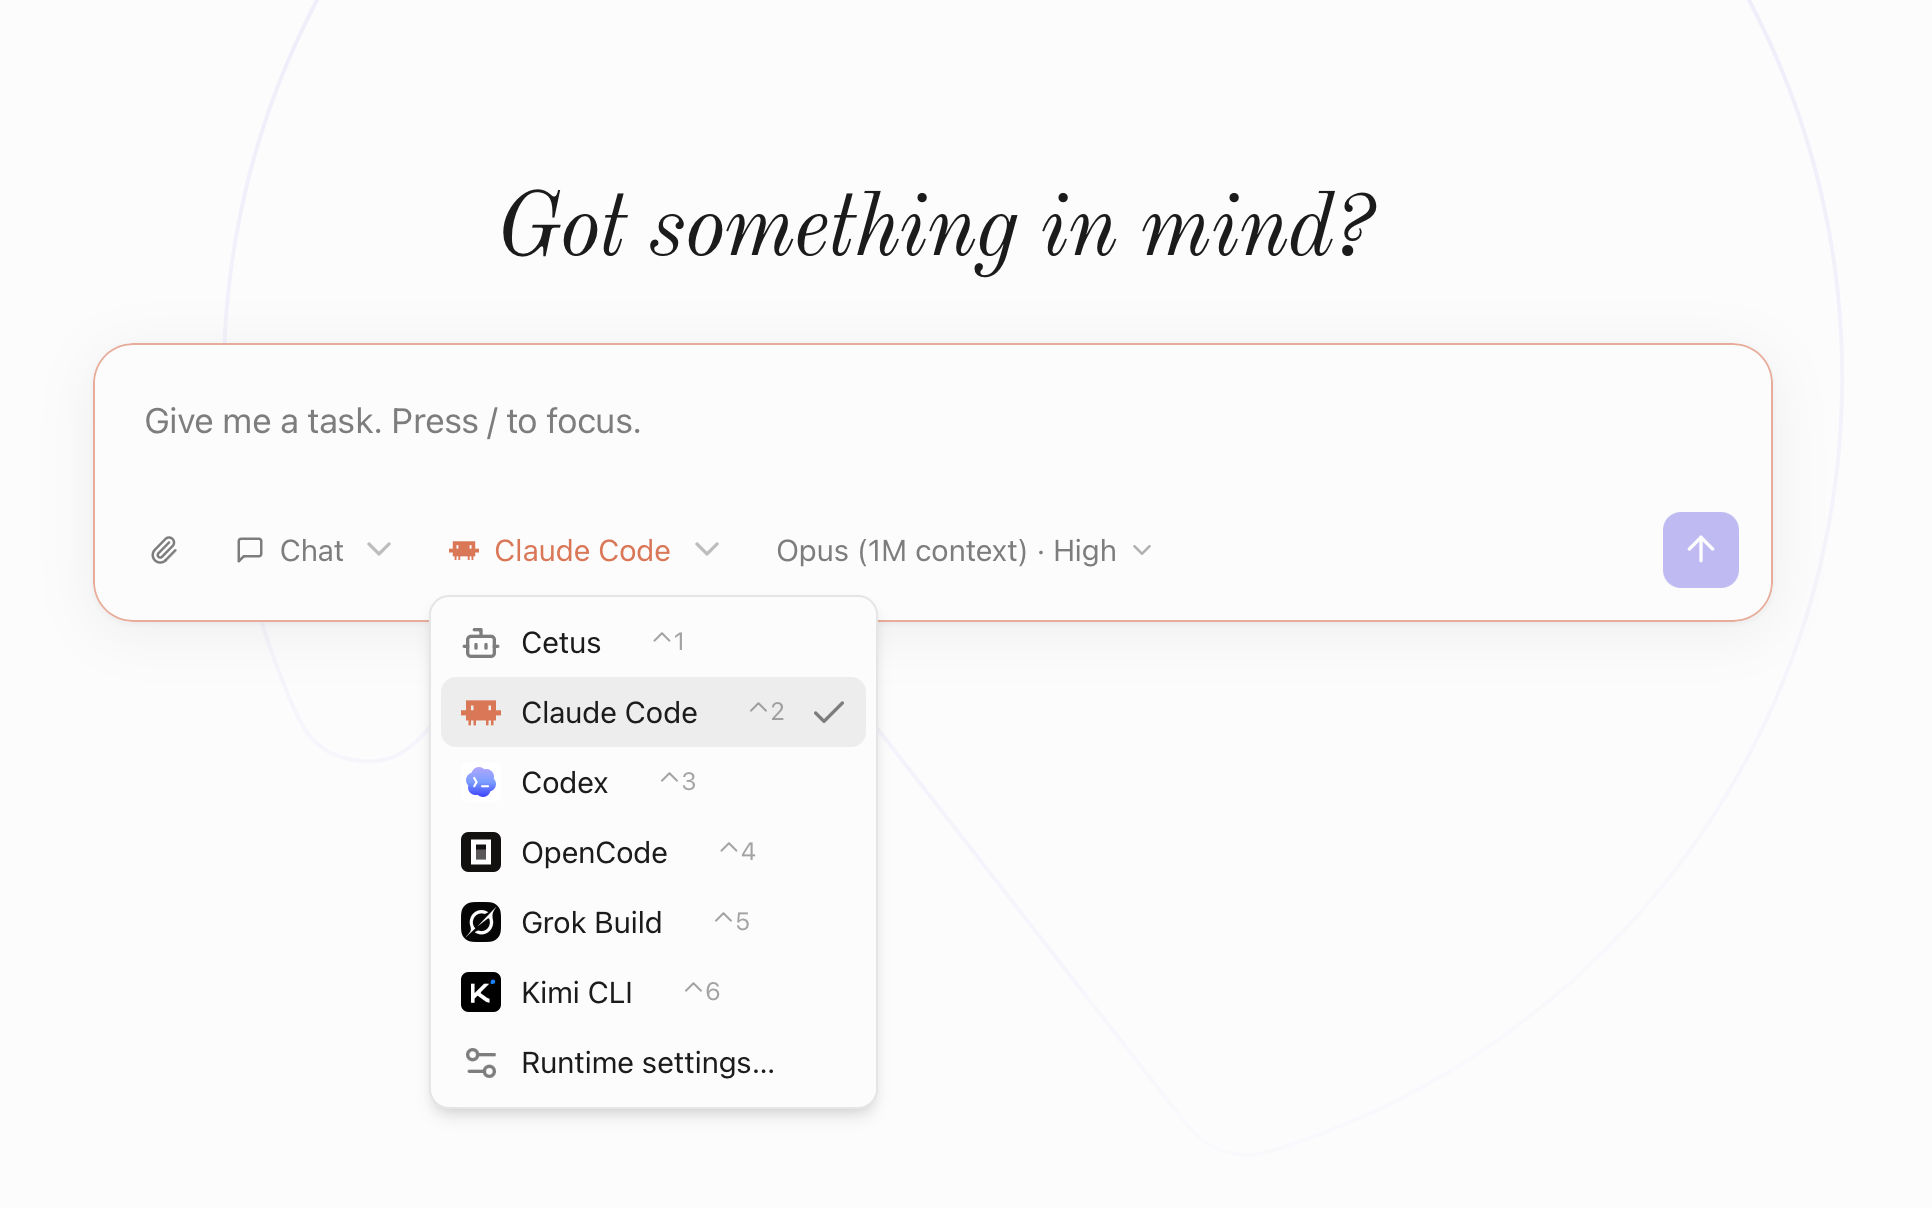
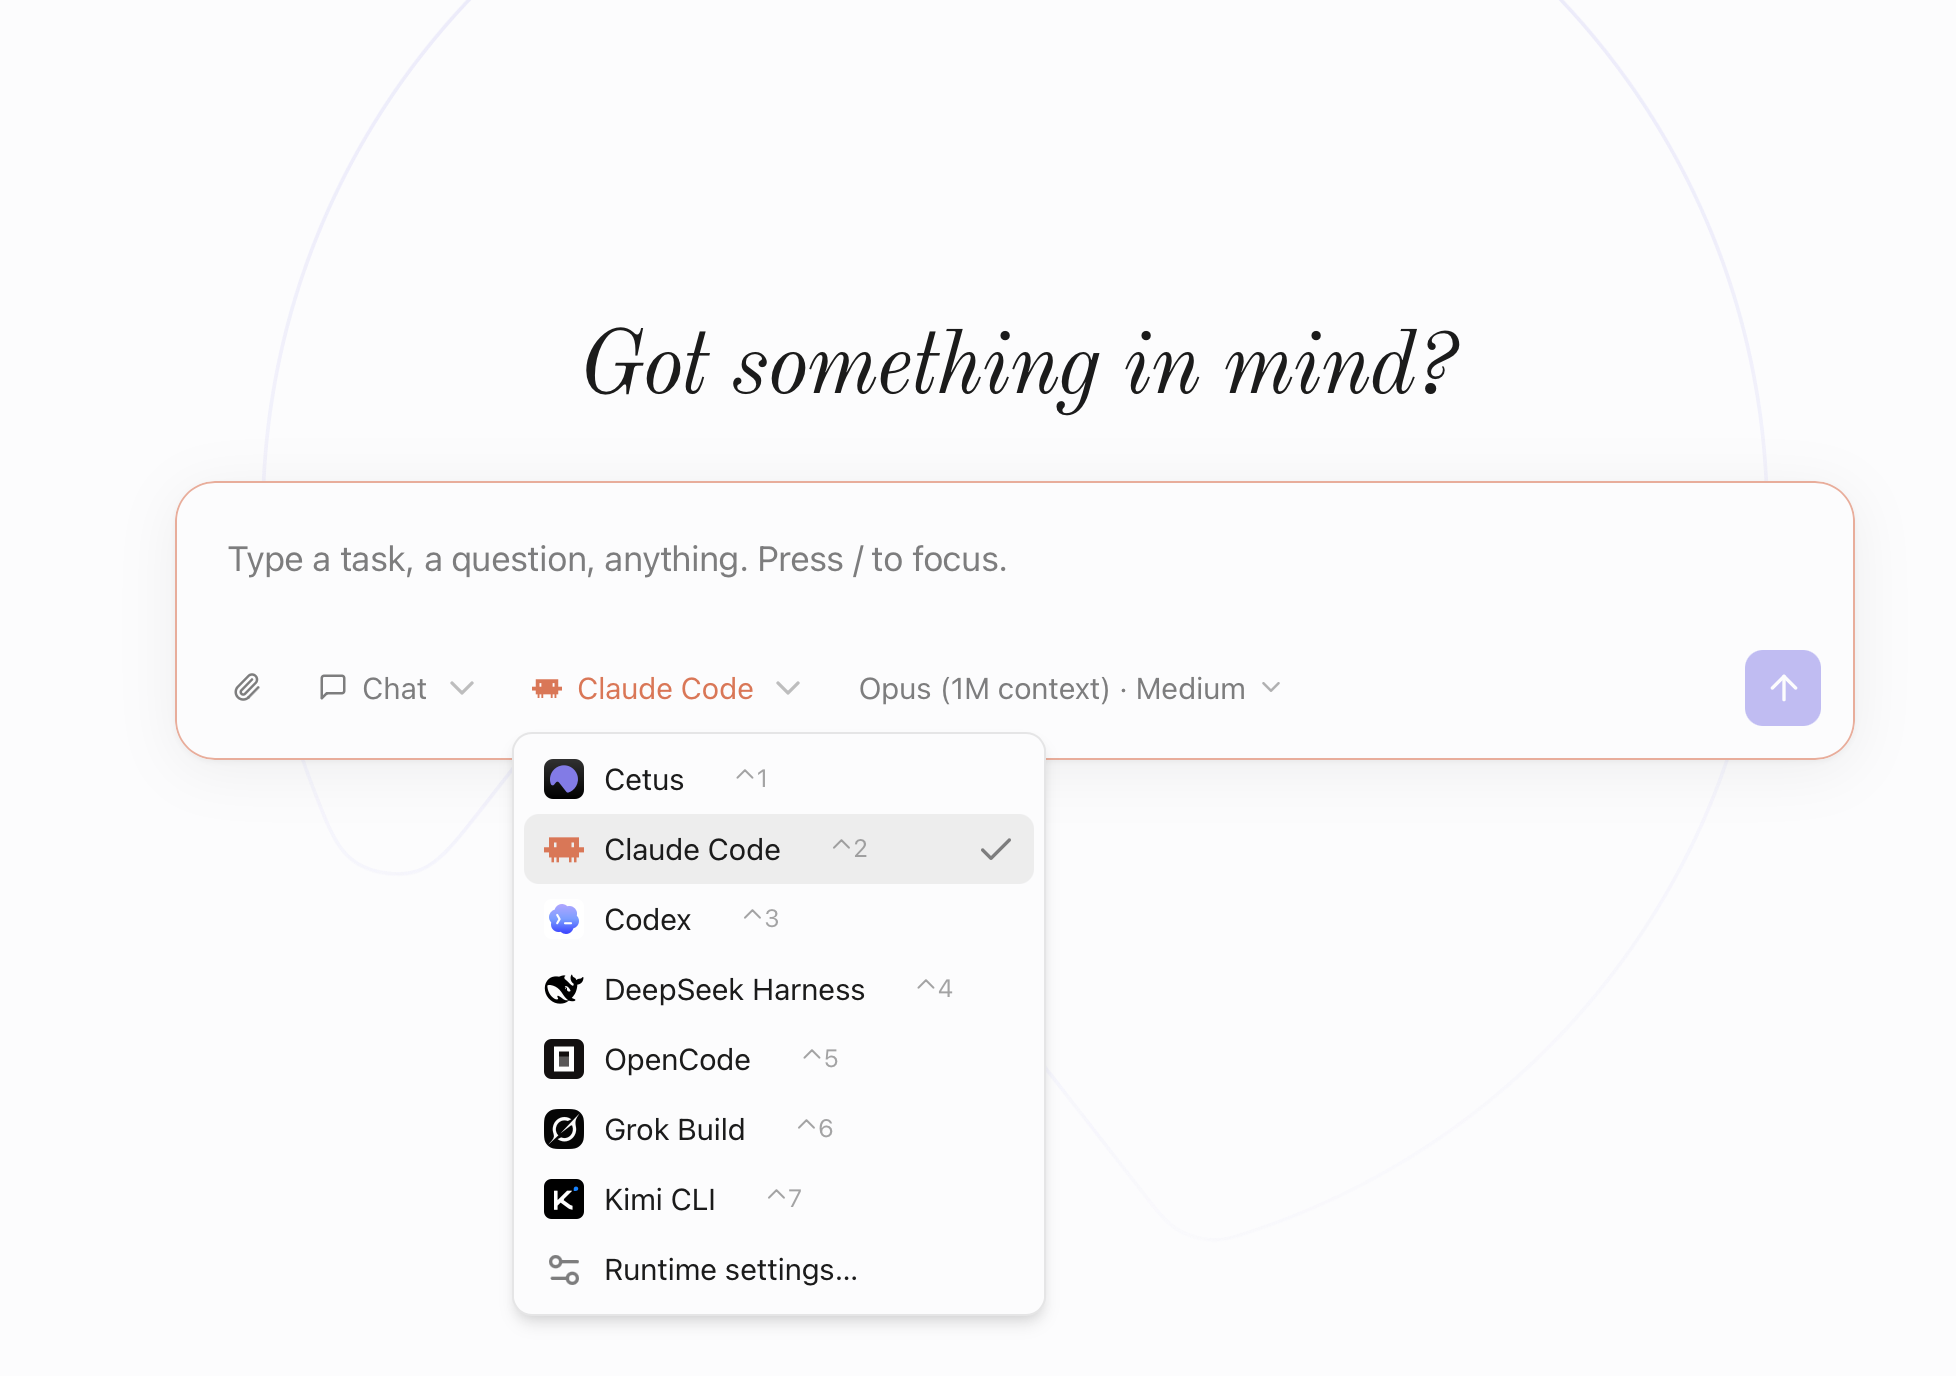
feat: detect DeepSeek Harness defaults

diff --git a/src-tauri/src/cli_backend.rs b/src-tauri/src/cli_backend.rs
@@ -173,6 +173,7 @@ pub async fn get_cli_defaults(backend: String) -> Result<CliDefaults, String> {
         }
         "codex" => codex_defaults(&home),
         "grok" => probe_grok_defaults().await.unwrap_or_default(),
+        "dsh" => dsh_defaults(&home),
         _ => CliDefaults::default(),
     })
 }
@@ -627,6 +628,65 @@ fn codex_defaults(home: &Path) -> CliDefaults {
         effort,
         models: (!models.is_empty()).then_some(models),
     }
+}
+
+/// DSH persists the selection made by its model picker under the
+/// `agent-default-model` mapping in `$DSH_HOME/settings.yaml`. Keep this
+/// deliberately small instead of adding a YAML dependency for three scalar
+/// fields; stop at the next top-level key so similarly named plugin settings
+/// cannot be mistaken for the agent defaults.
+fn dsh_defaults(home: &Path) -> CliDefaults {
+    let dsh_home = std::env::var_os("DSH_HOME")
+        .filter(|value| !value.is_empty())
+        .map(PathBuf::from)
+        .unwrap_or_else(|| home.join(".dsh"));
+    let raw = std::fs::read_to_string(dsh_home.join("settings.yaml")).unwrap_or_default();
+    dsh_defaults_from_settings(&raw)
+}
+
+fn dsh_defaults_from_settings(raw: &str) -> CliDefaults {
+    let mut in_defaults = false;
+    let mut model = None;
+    let mut effort = None;
+    for line in raw.lines() {
+        let trimmed = line.trim();
+        if trimmed.is_empty() || trimmed.starts_with('#') {
+            continue;
+        }
+        let indented = line.starts_with([' ', '\t']);
+        if !indented {
+            in_defaults = trimmed == "agent-default-model:";
+            continue;
+        }
+        if !in_defaults {
+            continue;
+        }
+        if let Some(value) = yaml_scalar(trimmed, "model") {
+            model = Some(value);
+        } else if let Some(value) = yaml_scalar(trimmed, "reasoningEffort") {
+            effort = Some(value);
+        }
+    }
+    CliDefaults {
+        model,
+        effort,
+        models: None,
+    }
+}
+
+fn yaml_scalar(line: &str, key: &str) -> Option<String> {
+    let value = line.strip_prefix(key)?.strip_prefix(':')?.trim();
+    let value = value.split(" #").next()?.trim();
+    let unquoted = value
+        .strip_prefix('"')
+        .and_then(|value| value.strip_suffix('"'))
+        .or_else(|| {
+            value
+                .strip_prefix('\'')
+                .and_then(|value| value.strip_suffix('\''))
+        })
+        .unwrap_or(value);
+    (!unquoted.is_empty()).then(|| unquoted.to_string())
 }
 
 /// `key = "value"` on a single TOML line → value. Rejects longer keys sharing
@@ -1636,6 +1696,25 @@ mod tests {
         assert_eq!(commands[1]["argumentHint"], "[<target>]");
         // A models-only ack (no catalog) must not fabricate entries.
         assert!(claude_commands_from_initialize(&json!({"response":{"response":{}}})).is_empty());
+    }
+
+    #[test]
+    fn dsh_settings_resolve_default_model_and_effort() {
+        let defaults = dsh_defaults_from_settings(
+            r#"
+ui-onboarding:
+  welcomeNoticeVersion: 1
+agent-default-model:
+  provider: deepseek-official
+  model: "deepseek-v4-flash"
+  reasoningEffort: high # selected in the DSH picker
+another-plugin:
+  model: must-not-win
+"#,
+        );
+        assert_eq!(defaults.model.as_deref(), Some("deepseek-v4-flash"));
+        assert_eq!(defaults.effort.as_deref(), Some("high"));
+        assert!(defaults.models.is_none());
     }
 
     #[test]

diff --git a/README.zh-CN.md b/README.zh-CN.md
@@ -27,7 +27,7 @@
 
 <p align="center"><img src="docs/cetus-community-wechat.jpg" width="360" alt="Cetus 社区微信群二维码" /></p>
 
-![Cetus runtime 选择器 —— Claude Code、Codex、OpenCode、Grok Build、Kimi CLI 都在同一个 macOS app 里](docs/screenshot-runtime-picker.png)
+![Cetus runtime 选择器 —— Claude Code、Codex、DeepSeek Harness、OpenCode、Grok Build、Kimi CLI 都在同一个 macOS app 里](docs/screenshot-runtime-picker.png)
 
 ![Cetus 操作演示 —— 唤起 agent、创建自动化任务并切换 runtime](docs/cetus-demo.gif)
 

diff --git a/README.md b/README.md
@@ -27,7 +27,7 @@
 
 <p align="center"><img src="docs/cetus-community-wechat.jpg" width="360" alt="WeChat QR code for the Cetus community group" /></p>
 
-![Cetus runtime picker — Claude Code, Codex, OpenCode, Grok Build, and Kimi CLI in one macOS app](docs/screenshot-runtime-picker.png)
+![Cetus runtime picker — Claude Code, Codex, DeepSeek Harness, OpenCode, Grok Build, and Kimi CLI in one macOS app](docs/screenshot-runtime-picker.png)
 
 ![Cetus demo — launch an agent, schedule an automation, and switch runtimes](docs/cetus-demo.gif)
 
